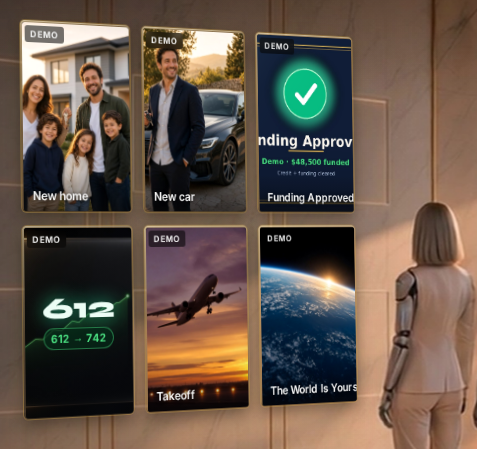
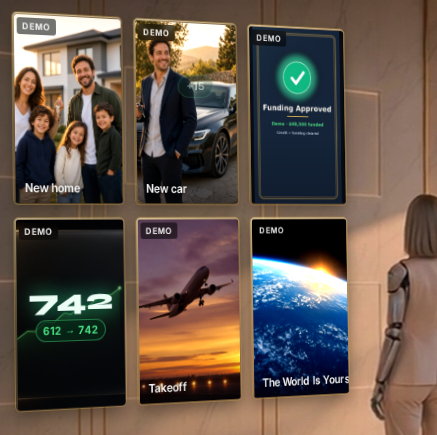
v4f: Funding text fit, full tile opacity, score settles at 742
Portrait Funding plate + contain so title/amount pad inside the cell;
force .tile.on opacity 1 and brighten World; QA stills after ≥6.5s settle.
No Runway spend.

diff --git a/v4/index.html b/v4/index.html
@@ -5,12 +5,12 @@
   <meta name="viewport" content="width=device-width, initial-scale=1, viewport-fit=cover" />
   <meta name="robots" content="noindex, nofollow, noarchive" />
   <meta name="description" content="Preview only. Scores OS penthouse hero. Not the live scoresos.com homepage." />
-  <title>Scores OS — Penthouse Preview v4e (Not Live)</title>
+  <title>Scores OS — Penthouse Preview v4f (Not Live)</title>
   <link rel="icon" href="./favicon.svg" type="image/svg+xml" />
   <link rel="preconnect" href="https://fonts.googleapis.com" />
   <link rel="preconnect" href="https://fonts.gstatic.com" crossorigin />
   <link href="https://fonts.googleapis.com/css2?family=Inter:wght@400;500;600;700;800&family=Syne:wght@700;800&display=swap" rel="stylesheet" />
-  <link rel="stylesheet" href="./styles.css?v=v4e1" />
+  <link rel="stylesheet" href="./styles.css?v=v4f" />
 </head>
 <body>
   <a class="skip" href="#cta">Skip to Get Started</a>
@@ -76,7 +76,7 @@
           </article>
           <article class="tile" data-i="2" style="--d:2">
             <div class="tile-glass">
-              <img src="./media/tiles/03-funding-approved-768.jpg" alt="Funding Approved — check, Demo amount" width="768" height="576" loading="eager" />
+              <img src="./media/tiles/03-funding-approved-768.jpg" alt="Funding Approved — check, Demo amount" width="461" height="800" loading="eager" />
               <span class="tile-reflect" aria-hidden="true"></span>
             </div>
             <span class="demo">Demo</span>
@@ -148,6 +148,6 @@
     <p>Preview only · Scores OS · not affiliated with any credit bureau</p>
   </footer>
 
-  <script src="./js/hero.js?v=v4e1" defer></script>
+  <script src="./js/hero.js?v=v4f" defer></script>
 </body>
 </html>

diff --git a/v4/js/hero.js b/v4/js/hero.js
@@ -31,10 +31,21 @@
     bump(100);
     setTimeout(() => loader?.classList.add('done'), 180);
     requestAnimationFrame(() => {
-      tiles.forEach((t) => t.classList.add('on'));
+      tiles.forEach((t) => {
+        t.classList.add('on');
+        t.style.opacity = '1';
+      });
       if (!reduce) startScore();
       else if (scoreNum) scoreNum.textContent = '742';
       if (!reduce && !mobile()) spawnChips();
+      // after longest tile delay (5*140+200) + transition 550ms ≈ 1.45s — snap full opacity
+      setTimeout(() => {
+        tiles.forEach((t) => {
+          t.classList.add('on');
+          t.style.opacity = '1';
+        });
+        if (scoreNum) scoreNum.textContent = '742';
+      }, 2000);
     });
   }
 
@@ -110,7 +121,7 @@
     }, { passive: true });
   }
 
-  // Score tick 612 → 742
+  // Score tick 612 → 742 (always settle exactly on 742)
   function startScore() {
     if (!scoreNum) return;
     const from = 612, to = 742;
@@ -121,6 +132,7 @@
       const eased = 1 - Math.pow(1 - p, 3);
       scoreNum.textContent = String(Math.round(from + (to - from) * eased));
       if (p < 1) requestAnimationFrame(step);
+      else scoreNum.textContent = '742';
     };
     requestAnimationFrame(step);
   }

diff --git a/v4/styles.css b/v4/styles.css
@@ -184,9 +184,28 @@ a { color: inherit; text-decoration: none; }
   mix-blend-mode: soft-light;
 }
 .tile.on {
-  opacity: 1;
+  opacity: 1 !important;
   transform: translateY(0) scale(1);
 }
+.tile.on img {
+  opacity: 1;
+  /* keep tiles punchy after reveal — world was reading washed */
+  filter: saturate(1.08) contrast(1.06) brightness(1.04);
+}
+.tile[data-i="5"].on img {
+  filter: saturate(1.18) contrast(1.12) brightness(1.14);
+}
+/* Funding plate is portrait; contain ensures title+amount never side-clip */
+.tile[data-i="2"] .tile-glass {
+  background: #0a101a;
+}
+.tile[data-i="2"] img {
+  object-fit: contain;
+  object-position: center;
+  filter: none;
+}
+.tile[data-i="2"] .cap { display: none; }
+
 .tile:hover, .tile.hot {
   box-shadow:
     0 0 0 1px rgba(255, 220, 160, .7),

diff --git a/v4/qa/SELF-CRITIQUE-v4.md b/v4/qa/SELF-CRITIQUE-v4.md
@@ -1,29 +1,27 @@
-# SELF-CRITIQUE — Scores OS penthouse hero v4e
+# SELF-CRITIQUE — Scores OS penthouse hero v4f
 
-**URL:** https://scoresos-world-preview.onrender.com/v4/?v=v4e  
-**Cache:** `styles.css?v=v4e1`  
+**URL:** https://scoresos-world-preview.onrender.com/v4/?v=v4f  
+**Cache:** `styles.css?v=v4f` / `hero.js?v=v4f`  
 **Date:** 2026-11-02 (America/New_York)
 
 ## Change
-v4d wall regressed (tiny + left-clipped). v4e restores head→knees scale with a locked 1440 AABB and proportional 1280 scaling. Copy vignette + Funding card from v4d kept. **No Runway spend.**
+v4e size kept. Three nits:
+1. Funding Approved was side-clipped (`nding Approv`) — new portrait plate (~461×800) + `object-fit: contain` so title + amount sit fully inside the cell with padding; funding `.cap` hidden (text baked in plate).
+2. World Is Yours looked washed — brightened source + `.tile.on { opacity: 1 !important }` + post-reveal img saturate/contrast; world tile gets a stronger filter. QA stills taken after ≥6.5s so every reveal has finished.
+3. Score tile settles on **742** (tick + 2s hard snap).
 
-## 1440×900 lock (measured)
-| Target | Measured |
+**No Runway spend.**
+
+## Settled QA (Playwright, wait ≥6.5s)
+| Check | Result |
 |---|---|
-| left ≥24, ≈40 | ~38–40 |
-| top ≈120 | ~121 |
-| right ≈380 (clear of Maxine ≈410) | ~375–385 |
-| bottom ≈520 | ~521 |
-| gap | 14px |
-| label size | ~12px |
+| `#score-num` | `742` |
+| all six `.tile` opacity | `1` |
+| Funding title | full "Funding Approved" + amount visible in `_funding-tile.png` |
+| World tile | full opacity / not washed in `_wall-crop.png` |
 
-## Notes
-- `rotateY(22°)` foreshortens width; layout width is pre-compensated so the post-transform AABB hits the lock.
-- Within x40–380 × y120–520 and 14px gaps, cells are taller than 4:3 (~0.54). Full-bleed imagery + gradient caps kept (no black label band). Strict landscape 4:3 cannot also span head→knees while staying left of Maxine.
-- Mobile unchanged (wall `display:none`).
-
-## QA
-`hero-1440x900.png`, `hero-1280x800.png`, `hero-390x844.png`, `_wall-crop.png`, `hero-12s.mp4`
+## QA files
+`hero-1440x900.png`, `hero-1280x800.png`, `hero-390x844.png`, `_wall-crop.png`, `_funding-tile.png`, `hero-12s.mp4`
 
 ## Credits
-Runway: **0**
+Runway: **0** (balance still 249)
